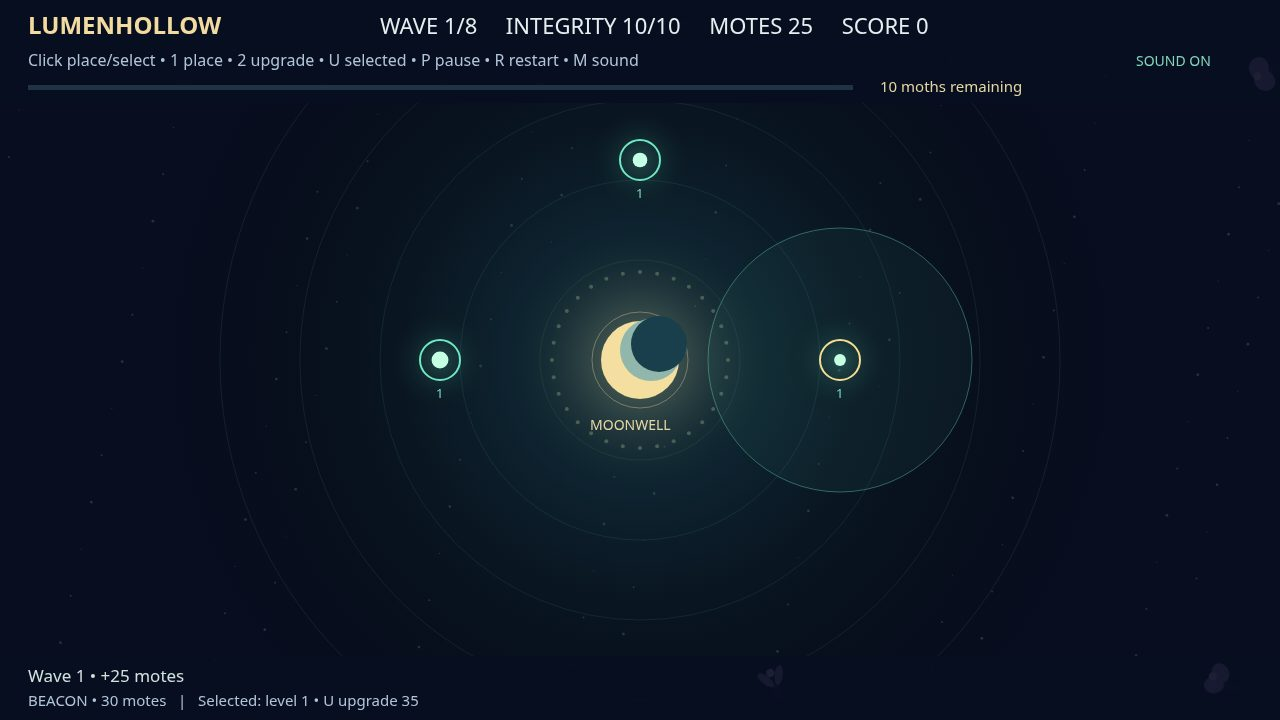
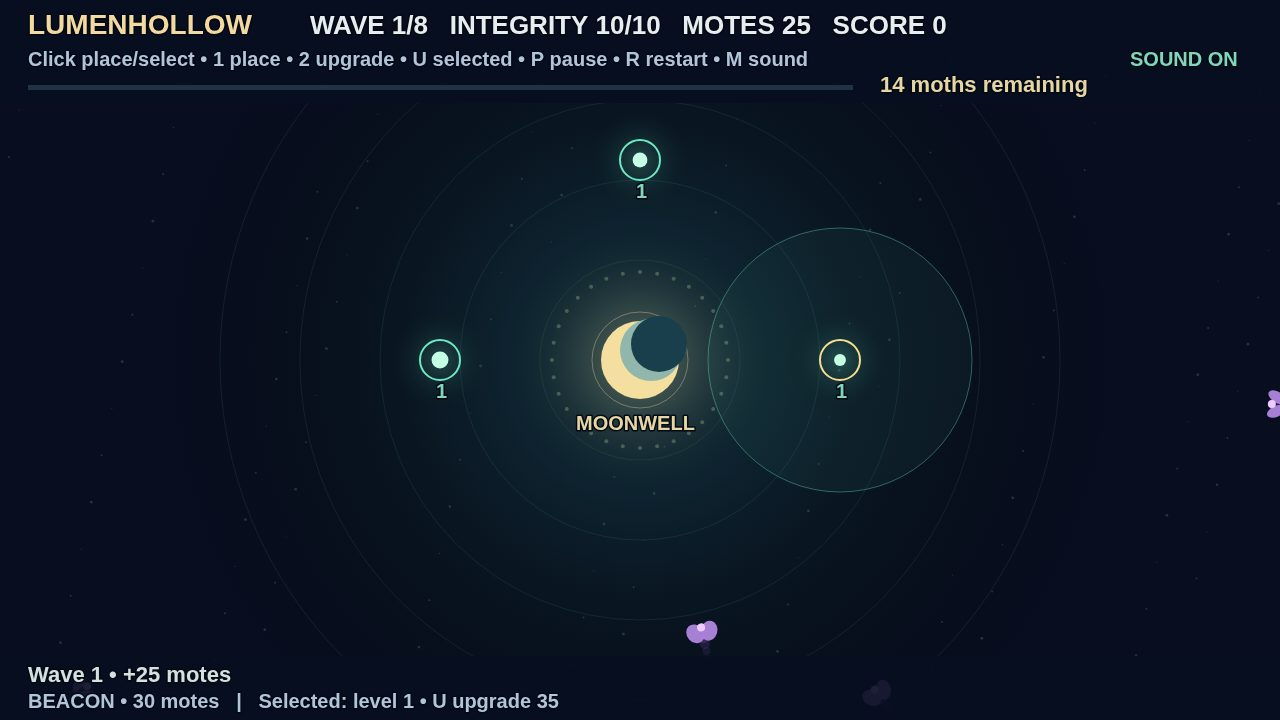
Pacing + boss + font: faster/more moths per wave, wave-7 boss, clearer Arial HUD

diff --git a/game/src/render.js b/game/src/render.js
@@ -7,8 +7,12 @@ export function createRenderer(canvas) {
     if (stroke) { ctx.strokeStyle = color; ctx.stroke(); }
     else { ctx.fillStyle = color; ctx.fill(); }
   };
-  const text = (label, x, y, size = 18, color = '#b1c5da') => {
-    ctx.fillStyle = color; ctx.font = `${size >= 24 ? 'bold ' : ''}${size}px system-ui`; ctx.fillText(label, x, y);
+  const text = (label, x, y, size = 20, color = '#b1c5da') => {
+    ctx.save();
+    ctx.font = `bold ${size}px Arial, Helvetica, sans-serif`;
+    ctx.lineWidth = 3; ctx.strokeStyle = '#040915'; ctx.lineJoin = 'round';
+    ctx.strokeText(label, x, y); ctx.fillStyle = color; ctx.fillText(label, x, y);
+    ctx.restore();
   };
   function glow(x, y, r, color) {
     const g = ctx.createRadialGradient(x, y, 0, x, y, r);
@@ -30,25 +34,31 @@ export function createRenderer(canvas) {
     glow(640, 360, 140, s.flash > 0 ? '#ff7979aa' : '#ffe19a55');
     circle(640, 360, 48, '#e4ce9b66', true); circle(640, 360, 39, '#f4dfa1');
     circle(651, 350, 31, '#91b7ac'); circle(659, 344, 28, '#183f4b');
-    text('MOONWELL', 590, 430, 14, '#e5d6a4');
+    text('MOONWELL', 576, 430, 20, '#e5d6a4');
     for (const b of s.beacons) {
       const selected = s.selected === b || Math.hypot(b.x - mouse.x, b.y - mouse.y) < 30;
       if (selected) { circle(b.x, b.y, radius(b), '#6ce8c00c'); circle(b.x, b.y, radius(b), '#6ce8c060', true); }
       glow(b.x, b.y, 55, '#6ce8c039');
       ctx.lineWidth = 2; circle(b.x, b.y, 20, selected ? '#f5dc92' : '#6ce8c0', true); ctx.lineWidth = 1;
       circle(b.x, b.y, 7 + Math.sin(s.time * 3 + b.x) * 1.5, '#c5ffe4');
-      text(String(b.level), b.x - 4, b.y + 38, 13, '#80d5bb');
+      text(String(b.level), b.x - 4, b.y + 38, 20, '#80d5bb');
     }
     for (const q of s.moths) {
       const angle = Math.atan2(360 - q.y, 640 - q.x);
+      if (q.boss) glow(q.x, q.y, 58 + Math.sin(s.time * 4) * 8, '#dc234d88');
       ctx.save(); ctx.translate(q.x, q.y); ctx.rotate(angle);
+      if (q.boss) ctx.scale(2.6, 2.6);
       for (let i = 1; i <= 4; i++) circle(-i * 7, 0, 7 - i, `rgba(180,105,240,${.2 - i * .035})`);
       const flap = 4 + Math.abs(Math.sin(s.time * 12 + q.phase)) * 7;
-      ctx.fillStyle = '#a780d5';
+      ctx.fillStyle = q.boss ? '#d63860' : '#a780d5';
       for (const side of [-1, 1]) {
         ctx.beginPath(); ctx.ellipse(-2, side * 7, 10, flap, side * .5, 0, Math.PI * 2); ctx.fill();
       }
-      circle(3, 0, 4, '#f0caff'); ctx.restore();
+      circle(3, 0, 4, q.boss ? '#ffddad' : '#f0caff'); ctx.restore();
+      if (q.boss) {
+        ctx.fillStyle = '#210915'; ctx.fillRect(q.x - 32, q.y - 48, 64, 8);
+        ctx.fillStyle = '#ff6685'; ctx.fillRect(q.x - 31, q.y - 47, 62 * Math.max(0, q.hp / q.maxHp), 6);
+      }
     }
     for (const shot of s.shots) {
       ctx.strokeStyle = `rgba(166,255,215,${shot.life / .13})`;
@@ -56,32 +66,32 @@ export function createRenderer(canvas) {
     }
     for (const p of s.particles) { ctx.globalAlpha = p.life / .65; circle(p.x, p.y, 2.5, '#dfb5ff'); }
     ctx.globalAlpha = 1;
-    for (const p of s.texts) { ctx.globalAlpha = p.life; text('+6', p.x, p.y, 18, '#a0ffd3'); }
+    for (const p of s.texts) { ctx.globalAlpha = p.life; text(p.label || '+6', p.x, p.y, 22, '#a0ffd3'); }
     ctx.globalAlpha = 1;
     ctx.fillStyle = '#080e20e8'; ctx.fillRect(0, 0, 1280, 103); ctx.fillRect(0, 656, 1280, 64);
-    text('LUMENHOLLOW', 28, 34, 24, '#f3daa0');
-    text(`WAVE ${s.wave}/8     INTEGRITY ${s.integrity}/10     MOTES ${s.motes}     SCORE ${s.score}`, 380, 34, 22, '#e6eff0');
-    text('Click place/select • 1 place • 2 upgrade • U selected • P pause • R restart • M sound', 28, 66, 16);
-    text(mouse.muted ? 'SOUND OFF' : 'SOUND ON', 1136, 66, 14, '#81d7bb');
+    text('LUMENHOLLOW', 28, 34, 28, '#f3daa0');
+    text(`WAVE ${s.wave}/8   INTEGRITY ${s.integrity}/10   MOTES ${s.motes}   SCORE ${s.score}`, 310, 34, 26, '#e6eff0');
+    text('Click place/select • 1 place • 2 upgrade • U selected • P pause • R restart • M sound', 28, 66, 20);
+    text(mouse.muted ? 'SOUND OFF' : 'SOUND ON', 1130, 66, 20, '#81d7bb');
     ctx.fillStyle = '#213244'; ctx.fillRect(28, 85, 825, 5);
     ctx.fillStyle = '#7bdfbc'; ctx.fillRect(28, 85, 825 * (s.active ? 1 - (s.toSpawn + s.moths.length) / s.total : 1), 5);
     const waveStatus = s.won ? 'All 8 waves cleared' : s.dead ? 'The moonwell has fallen' : s.active ? `${s.toSpawn + s.moths.length} moths remaining` : `Next wave in ${Math.max(0, Math.ceil(s.countdown))}s`;
-    text(waveStatus, 880, 92, 15, '#e5d6a4');
-    text(s.notice, 28, 682, 17, '#d1e2df');
-    text(`${s.mode === 'upgrade' ? 'UPGRADE • 35' : 'BEACON • 30'} motes${s.selected ? `   |   Selected: level ${s.selected.level} • U upgrade 35` : ''}`, 28, 706, 15);
+    text(waveStatus, 880, 92, 22, '#e5d6a4');
+    text(s.notice, 28, 682, 22, '#d1e2df');
+    text(`${s.mode === 'upgrade' ? 'UPGRADE • 35' : 'BEACON • 30'} motes${s.selected ? `   |   Selected: level ${s.selected.level} • U upgrade 35` : ''}`, 28, 708, 20);
     if (screen !== 'play') {
       ctx.fillStyle = '#040915a6'; ctx.fillRect(0, 103, 1280, 553);
       ctx.fillStyle = '#0b1728f2'; ctx.fillRect(170, 155, 940, 426);
       ctx.strokeStyle = '#6ea39166'; ctx.strokeRect(170, 155, 940, 426);
       ctx.textAlign = 'center';
-      text('✦  KEEP THE LIVING LIGHT  ✦', 640, 205, 17, '#7cd6b8');
-      text(({ title: 'LUMENHOLLOW', pause: 'THE HOLLOW RESTS', win: 'MOONWELL SAVED', over: 'THE HOLLOW FADES' })[screen], 640, 285, 52, '#f3daa0');
+      text('✦  KEEP THE LIVING LIGHT  ✦', 640, 205, 22, '#7cd6b8');
+      text(({ title: 'LUMENHOLLOW', pause: 'THE HOLLOW RESTS', win: 'MOONWELL SAVED', over: 'THE HOLLOW FADES' })[screen], 640, 285, 58, '#f3daa0');
       text(screen === 'title' ? 'Light-zone tower defense • Survive all 8 waves' : `Wave ${s.wave}/8   •   Score ${s.score}   •   Integrity ${s.integrity}/10`, 640, 335, 23, '#e3ebef');
       text('Plant beacons for 30 motes. Defeat moths to earn +6.', 640, 391, 20);
       text('Select a beacon and press U to grow its light for 35 motes.', 640, 425, 20);
       ctx.fillStyle = '#8fe0bd'; ctx.fillRect(420, 467, 440, 57);
       text(screen === 'pause' ? 'P TO RESUME' : screen === 'title' ? 'CLICK OR SPACE TO BEGIN' : 'CLICK OR SPACE TO RESTART', 640, 503, 20, '#102b2b');
-      text('Protect the moonwell. Ten moth breaches end the night.', 640, 554, 16);
+      text('Protect the moonwell. Boss breaches drain 3 integrity.', 640, 554, 20);
       ctx.textAlign = 'left';
     }
   };

diff --git a/game/src/world.js b/game/src/world.js
@@ -38,23 +38,28 @@ export function createWorld(sound = () => {}) {
     if (!s.active) {
       s.countdown -= dt;
       if (s.countdown <= 0 && s.wave < 8) {
-        s.wave++; s.active = true; s.total = s.toSpawn = 7 + s.wave * 3;
-        s.spawn = 0; s.motes += 25; s.notice = `Wave ${s.wave} • +25 motes`; play('wave');
+        s.wave++; s.active = true;
+        s.total = s.toSpawn = 10 + s.wave * 4 + (s.wave % 7 === 0 ? 1 : 0);
+        s.spawn = 0; s.motes += 25;
+        s.notice = s.wave % 7 === 0 ? `WAVE ${s.wave} — BOSS INCOMING • +25 motes` : `Wave ${s.wave} • +25 motes`;
+        play('wave');
       }
     }
     if (s.active && s.toSpawn > 0) {
       s.spawn -= dt;
       if (s.spawn <= 0) {
-        s.spawn = Math.max(.45, 1.1 - s.wave * .07); s.toSpawn--;
+        const boss = s.wave % 7 === 0 && s.toSpawn === s.total;
+        s.spawn = Math.max(.24, 1.0 - s.wave * .08); s.toSpawn--;
         const edge = Math.floor(Math.random() * 4);
         const x = edge < 2 ? Math.random() * 1280 : (edge === 2 ? 0 : 1280);
         const y = edge < 2 ? (edge ? 720 : 0) : Math.random() * 720;
-        s.moths.push({ x, y, hp: 2 + s.wave * .45, speed: 22 + s.wave * 3, phase: Math.random() * 7 });
+        const hp = (2 + s.wave * .45) * (boss ? 10 : 1);
+        s.moths.push({ x, y, hp, maxHp: hp, speed: boss ? 30 : Math.min(66, 26 + s.wave * 5), phase: Math.random() * 7, boss });
       }
     }
     for (const q of s.moths) {
       const dx = 640 - q.x, dy = 360 - q.y, d = Math.hypot(dx, dy);
-      if (d <= 48) { q.dead = true; s.integrity = Math.max(0, s.integrity - 1); s.flash = 1; play('hit'); }
+      if (d <= 48) { q.dead = true; s.integrity = Math.max(0, s.integrity - (q.boss ? 3 : 1)); s.flash = 1; play('hit'); }
       else { q.x += dx / d * q.speed * dt; q.y += dy / d * q.speed * dt; }
     }
     for (const b of s.beacons) {
@@ -64,8 +69,8 @@ export function createWorld(sound = () => {}) {
         b.cool = .35; q.hp -= b.level; play('shoot');
         s.shots.push({ x: b.x, y: b.y, tx: q.x, ty: q.y, life: .13 });
         if (q.hp <= 0) {
-          q.dead = true; s.score += 12; s.motes += 6; play('kill');
-          s.texts.push({ x: q.x, y: q.y, life: 1 });
+          q.dead = true; s.score += q.boss ? 100 : 12; s.motes += q.boss ? 40 : 6; play('kill');
+          s.texts.push({ x: q.x, y: q.y, life: 1, label: q.boss ? '+BOSS DOWN' : '+6' });
           for (let i = 0; i < 9; i++) {
             const angle = Math.random() * Math.PI * 2, speed = 20 + Math.random() * 65;
             s.particles.push({ x: q.x, y: q.y, vx: Math.cos(angle) * speed, vy: Math.sin(angle) * speed, life: .65 });
